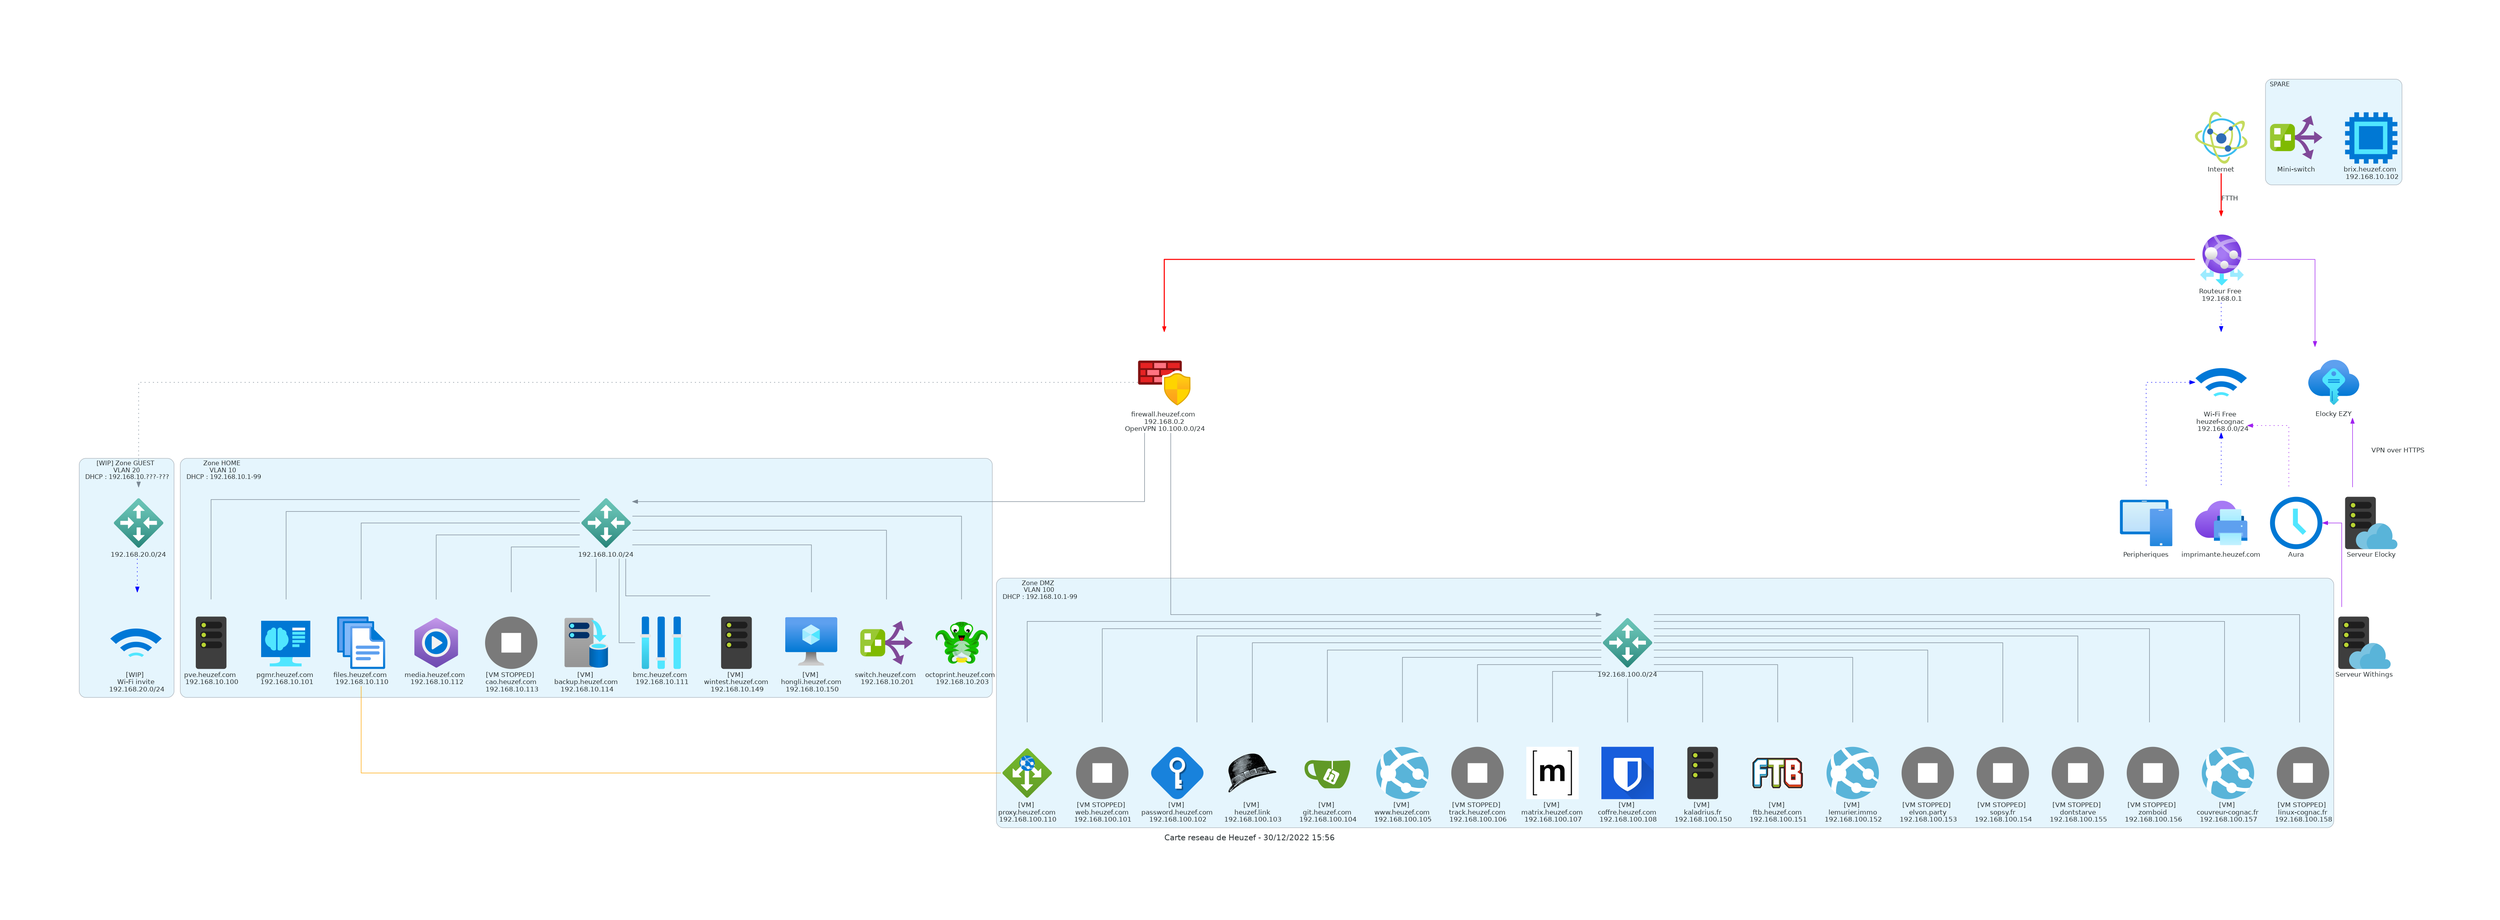
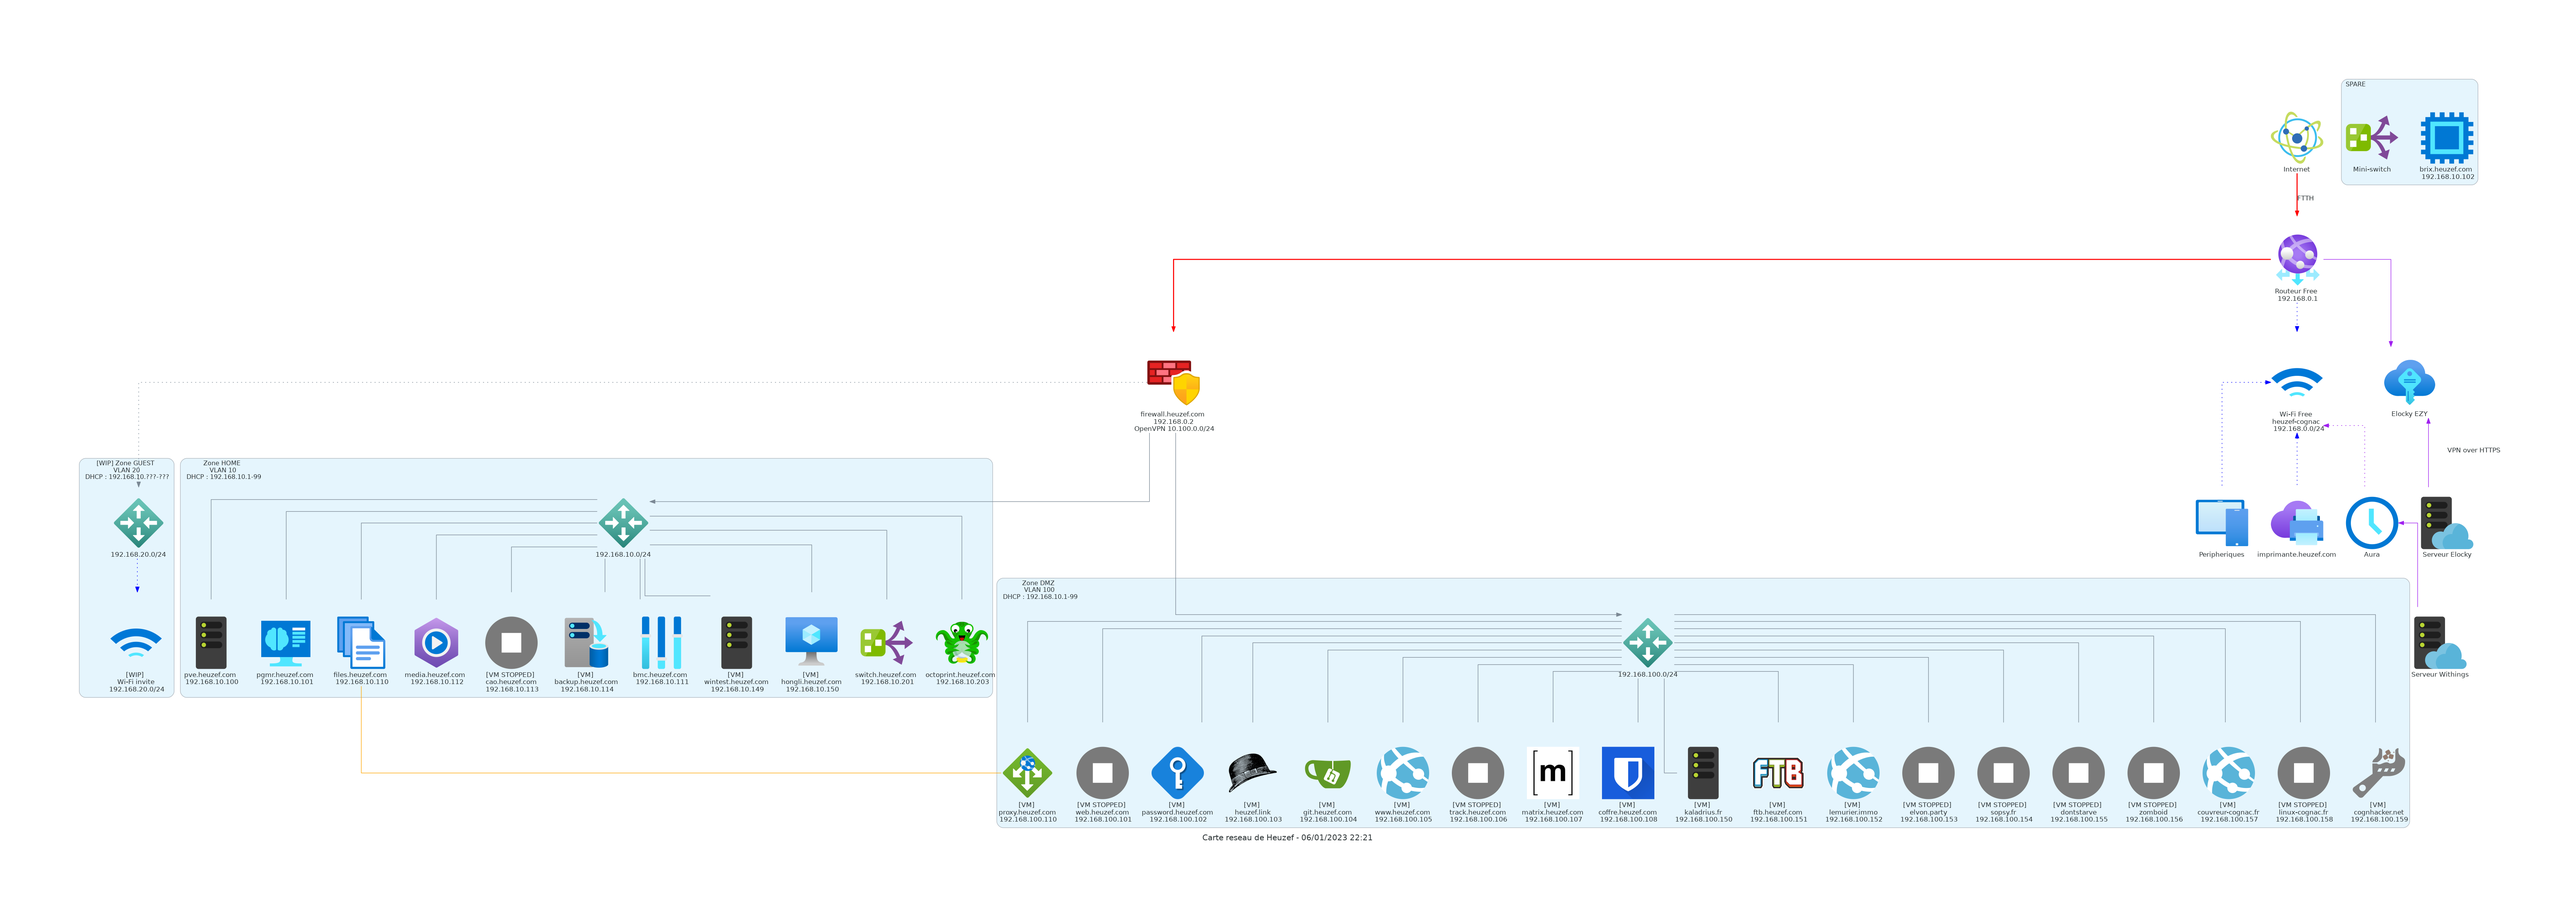
Add Cognhacker

diff --git a/network.py b/network.py
@@ -56,6 +56,7 @@ with Diagram("Carte reseau de Heuzef - %s" % today.strftime('%d/%m/%Y %H:%M') , 
 		zomboid = Custom("[VM STOPPED] \n zomboid \n 192.168.100.156", "icons/status-stopped.png")
 		couvreur_cognac_fr = Custom("[VM] \n couvreur-cognac.fr \n 192.168.100.157", "icons/web.png")
 		linux_cognac_fr = Custom("[VM STOPPED] \n linux-cognac.fr \n 192.168.100.158", "icons/status-stopped.png")
+		cognhacker_net = Custom("[VM] \n cognhacker.net \n 192.168.100.159", "icons/cognhacker.png")
 
 	with Cluster("SPARE"):
 		brix = Custom("brix.heuzef.com \n 192.168.10.102", "icons/cpu.png")
@@ -105,3 +106,4 @@ with Diagram("Carte reseau de Heuzef - %s" % today.strftime('%d/%m/%Y %H:%M') , 
 	DMZ - zomboid
 	DMZ - couvreur_cognac_fr
 	DMZ - linux_cognac_fr
+	DMZ - cognhacker_net 
